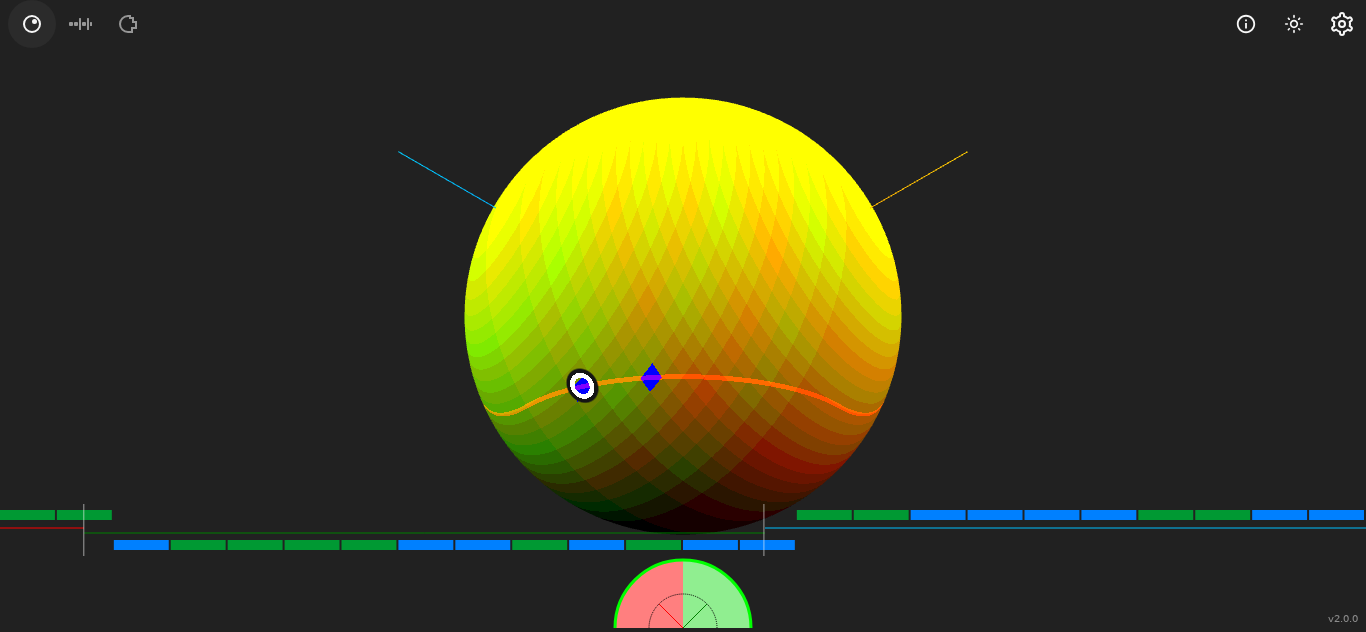
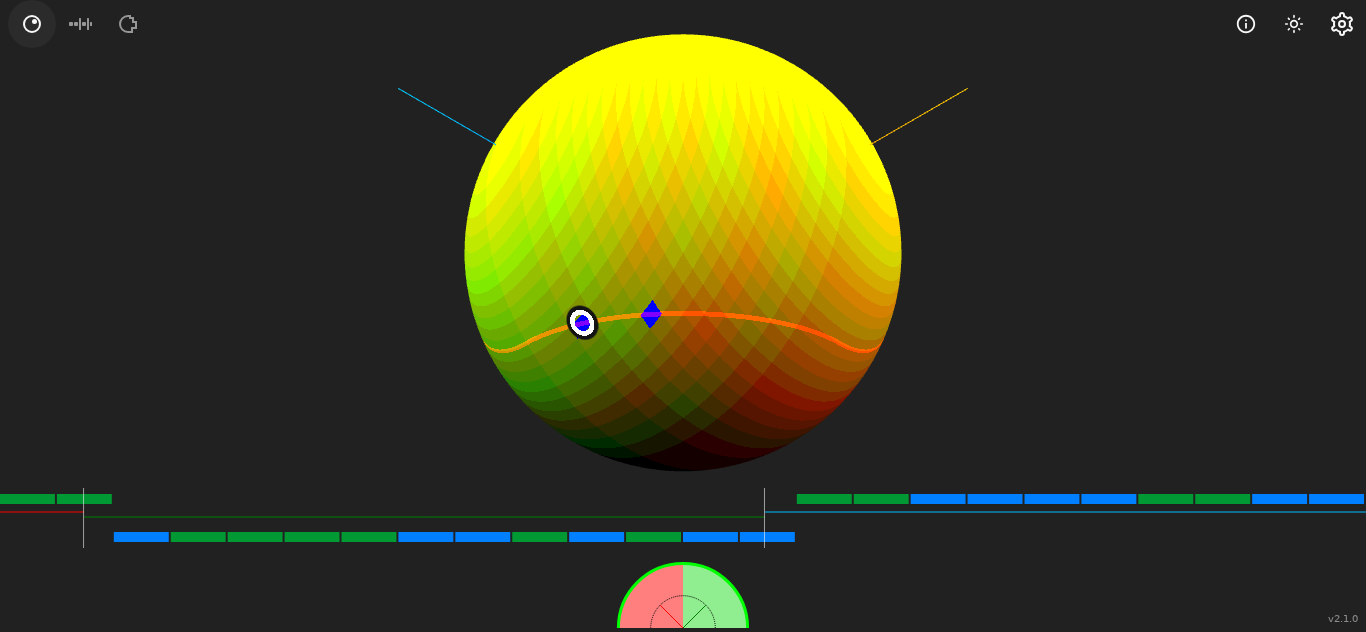
feat: a roomier layout (v2.1.0)
The sphere is drawn 10% of the height above the middle, through a view
offset of the projection, so the remembered camera, the orbit's target
and the raycast stay as they were. The necklace's rows stand 28 px apart
instead of 20, and the fairness meter starts 12 px below the handles and
fills 95% of its space. The canvas grows by 16 px, which keeps the
meter's space as before. The e2e test that samples the bottom row
follows the new distance; the README screenshots are retaken.

Changed region(s): [[0.0, 0.0301, 1.0, 0.932], [0.4919, 0.9019, 0.5534, 0.9921], [0.4305, 0.932, 0.4612, 0.9921]]

diff --git a/src/necklace/Necklace.ts b/src/necklace/Necklace.ts
@@ -23,7 +23,7 @@ const SEGMENT_Y_COLOR = "green";
 const SEGMENT_Z_COLOR = "rgb(0,191,255)";
 
 const JEWEL_HEIGHT = 10;
-const Y_GAP_BETWEEN_THIEVES = 20;
+const Y_GAP_BETWEEN_THIEVES = 28;
 const Y_GAP_BETWEEN_LINE_SEGMENTS = 5;
 const Y_GAP_THIEF_LINE_SEGMENT = 7;
 
@@ -33,6 +33,10 @@ const OVERHANG = 6;
 const ROWS_HEIGHT = 2 * JEWEL_HEIGHT + Y_GAP_BETWEEN_THIEVES;
 /** Where the handles are drawn and grabbed, from the top of the canvas. */
 const HANDLES_HEIGHT = ROWS_HEIGHT + 2 * OVERHANG;
+/** Where the fairness meter's space starts: below the handles, with a gap. */
+const GAUGE_TOP = HANDLES_HEIGHT + 12;
+/** The fairness meter's share of its space. */
+const GAUGE_SCALE = 0.95;
 /** How far from a handle, in px, a pointer still grabs it: at least 24 px wide for fingers. */
 const HANDLE_REACH = 14;
 /**
@@ -388,7 +392,7 @@ class Necklace extends NecklaceComponent {
       if (this.model.thief_a !== undefined && this.showGauge) {
         const thief_a = this.model.canonicalThief(this.model.thief_a);
         const thief_b = this.model.canonicalThief(this.model.thief_b);
-        this.drawGauge(ctx, 50 + OVERHANG, thief_a, thief_b);
+        this.drawGauge(ctx, GAUGE_TOP, thief_a, thief_b);
       }
     }
 
@@ -552,7 +556,7 @@ class Necklace extends NecklaceComponent {
     const height = this.height - y0;
     const lineWidth = 3.0;
     const vgap = 2;
-    const radius = height - vgap;
+    const radius = GAUGE_SCALE * (height - vgap);
 
     if (radius >= 10) {
       /** The real circle radius, scaled by sqrt(0.5), because the largest vector can be [1,1]. */

diff --git a/e2e/necklace.spec.ts b/e2e/necklace.spec.ts
@@ -176,11 +176,11 @@ test('without Discrete, a cut splits the jewel it falls into between the rows', 
     const rows = await necklace(page).evaluate((canvas: HTMLCanvasElement) => {
         const context = canvas.getContext('2d')!;
         const cut = 0.36 * canvas.width;
-        // The necklace starts 6 px down; a row is 10 px high, the bottom row 30 px below the top one.
+        // The necklace starts 6 px down; a row is 10 px high, the bottom row 38 px below the top one.
         const filled = (x: number, y: number) => context.getImageData(Math.round(x), y, 1, 1).data[3] > 0;
         return {
-            before: { top: filled(cut - 3, 11), bottom: filled(cut - 3, 41) },
-            after: { top: filled(cut + 3, 11), bottom: filled(cut + 3, 41) },
+            before: { top: filled(cut - 3, 11), bottom: filled(cut - 3, 49) },
+            after: { top: filled(cut + 3, 11), bottom: filled(cut + 3, 49) },
         };
     });
     // The first part goes to thief A, the second to thief B (the default thieves +, -, +).

diff --git a/src/sphere/Resizer.ts b/src/sphere/Resizer.ts
@@ -1,5 +1,13 @@
 import type * as THREE from "three";
 
+/**
+ * How far the sphere is drawn above the middle, as a part of the height: the
+ * necklace covers the bottom. Shifts the projection only, so the camera and
+ * the orbit's target (both remembered) stay as they are, and the raycast,
+ * which goes through the projection, follows.
+ */
+const VIEW_SHIFT = 0.1;
+
 class Resizer {
   constructor(
     container: HTMLElement,
@@ -27,7 +35,7 @@ class Resizer {
     // console.log(`setSize width: ${width}, height: ${height}`);
     if (camera !== undefined) {
       camera.aspect = width / height;
-      camera.updateProjectionMatrix();
+      camera.setViewOffset(width, height, 0, VIEW_SHIFT * height, width, height);
     }
 
     if (renderer !== undefined) {

diff --git a/src/css/necklace.css b/src/css/necklace.css
@@ -5,7 +5,8 @@
   bottom: 0%;
 
   width: 100%;
-  height: 20%;
+  /* The 16 px make room for the rows' gap and the meter's distance (Necklace.ts). */
+  height: calc(20% + 16px);
 
   margin-bottom: 2px;
   /* Dragging a handle must not scroll or zoom. */
@@ -18,7 +19,7 @@
   z-index: 5;
   position: absolute;
   left: 50%;
-  bottom: calc(20% + 16px);
+  bottom: calc(20% + 32px);
   transform: translateX(-50%);
   padding: 6px 14px;
   border-radius: 16px;

diff --git a/CLAUDE.md b/CLAUDE.md
@@ -61,8 +61,8 @@ Commit messages are `type: summary (vX.Y.Z)` with `type` one of `feat`, `fix`, `
 
 - `src/main.ts` sets up the app: settings, theme switcher, model, sphere, necklace, screen capture and the version label.
 - `src/necklace/NecklaceModel.ts` is the logic: the necklace configuration (from a number, lowest bit first, or from the bits of a string's characters), and the segment lengths and thief assignment for a cut. The shaders (`src/sphere/shaders/functions.glsl`) compute the same split for every point of the sphere; change both together, `e2e/split.spec.ts` compares them. `shares(p)` gives thief A's shares without applying the cut, for the Borsuk-Ulam shape. A new necklace keeps the cut (a point of the sphere, whatever the jewels), and the model applies it again on `UPDATE_SPHERE_MATERIAL`, so the shares follow a changed necklace or Discrete.
-- `src/sphere/Sphere.ts` is the 3D view: renderer, camera, `OrbitControls`, the sphere as eight octant meshes (faces and wireframe sharing one geometry; Spread octants moves them, Undivided octants hides two, so the shaders know nothing of octants and no triangle spans two of them) with their GLSL shaders (`src/sphere/shaders/`, loaded through `vite-plugin-glsl`), the solution band, the raycast that picks the cut under the pointer (it interpolates the hit triangle's `cut` attribute), and the render loop. `octantGeometry.ts` builds an octant's geometry: the attribute `cut` holds the point of the unit sphere each vertex stands for, which the shaders color by; when the Borsuk-Ulam shape is needed (shown, or morphing), the geometry gets it as its morph target, (g(x), z) · radius, computed on the CPU with `NecklaceModel.shares`. The meshes' morph influence (`SETTINGS.sphere.morph`, `applyMorph`) moves between sphere and shape; faces (the vertex shader includes Three's morph chunks), wireframe and raycast all follow it. The geometry is rebuilt by Radius and Segments, and with the shape also when the necklace or Discrete changes (`updateGeometry`). View › Lighting shades the faces in the fragment shader with a flat normal from screen-space derivatives and a headlight (`u_light`: Always 1, Shape as far as the sphere is morphed, Off 0); the light dims the colors to 60% at most, and the solution band and the marker stay unlit. Per-face normals rather than vertex normals (decided 2026-09-29): averaged normals would smear across the walls of the discrete shape, and these keep working while the shape morphs. The shape follows Discrete (decided 2026-09-29): a discrete g is piecewise constant, so what shows are the walls across its jumps, and they stay. `OrbitControls` stay (decided 2026-09-28, instead of the `TrackballControls` Climate Helix uses): they reach every point of the sphere and keep the vertical axis vertical, so the axes and octants stay where the explanation puts them; trackball controls let the view tip over, and their momentum needs an update every frame, against drawing only on change. The loop draws only when something changed (`#needsRender`: camera, pointer, size, theme, sphere, material or visibility) and every frame while the rotation animation runs: set the flag when adding anything else that changes the picture. The pointer is hit-tested before drawing; it is read on the sphere's canvas only (`mousemove`, `mouseleave`), so the settings panel, the necklace and the buttons in front of it do not move the cut, and it starts outside the view, so no cut is set before it moves. In the necklace mode (`cutsFromNecklace()` in `settingsValues.ts`) there is no hit-test: the marker shows the model's cut, and `SHOW_CUT` (a handle let go, a part given away) turns the camera around the orbit's target to the point if it lies more than 50° from the direction of view (`showCut`, `turnCamera`), not while the rotation animation runs. When the browser takes the GPU away (`webglcontextlost`), a message says so; Three.js restores its state when the context returns, and the sphere draws again (`webglcontextrestored`). Two tabs overwrite each other's stored settings, last write wins (decided 2026-10-01: rare, and nothing breaks). `Resizer.ts` fits renderer and camera to the window; `Stats.ts` is the optional FPS monitor.
-- `src/necklace/Necklace.ts` draws the necklace, the current cut as two handles and the fairness meter on a 2D canvas. In the necklace mode the handles are dragged (pointer events, snapped to the gaps between jewels with Discrete, swapping roles when one passes the other) and tapping a part gives it to the other thief; hidden sliders and buttons (`.visually-hidden`) do the same from the keyboard and for screen readers, and the canvas marks the focused one. The handles reach 6 px beyond the jewels' rows (`OVERHANG`). A cut set by the handles is nudged 10⁻⁹ before them, so that a handle exactly on a gap does not take the next jewel through rounding. A fair split shows a message (`role="status"`). The game hides the solution band and the solutions without touching the settings: `solutionHintShown` and `setSolutionHint` in `settingsValues.ts` read and write a per-game override while `cutsFromNecklace()`, which the view switcher resets on every `INPUT_CHANGED`; the settings' checkboxes show and change it during the game. `src/necklace/handles.ts` maps between handles (a, b and the thieves of the three parts) and the point of the sphere. `src/necklace/NecklaceComponent.ts` is the base class of both views (container, canvas, model, theme observer).
+- `src/sphere/Sphere.ts` is the 3D view: renderer, camera, `OrbitControls`, the sphere as eight octant meshes (faces and wireframe sharing one geometry; Spread octants moves them, Undivided octants hides two, so the shaders know nothing of octants and no triangle spans two of them) with their GLSL shaders (`src/sphere/shaders/`, loaded through `vite-plugin-glsl`), the solution band, the raycast that picks the cut under the pointer (it interpolates the hit triangle's `cut` attribute), and the render loop. `octantGeometry.ts` builds an octant's geometry: the attribute `cut` holds the point of the unit sphere each vertex stands for, which the shaders color by; when the Borsuk-Ulam shape is needed (shown, or morphing), the geometry gets it as its morph target, (g(x), z) · radius, computed on the CPU with `NecklaceModel.shares`. The meshes' morph influence (`SETTINGS.sphere.morph`, `applyMorph`) moves between sphere and shape; faces (the vertex shader includes Three's morph chunks), wireframe and raycast all follow it. The geometry is rebuilt by Radius and Segments, and with the shape also when the necklace or Discrete changes (`updateGeometry`). View › Lighting shades the faces in the fragment shader with a flat normal from screen-space derivatives and a headlight (`u_light`: Always 1, Shape as far as the sphere is morphed, Off 0); the light dims the colors to 60% at most, and the solution band and the marker stay unlit. Per-face normals rather than vertex normals (decided 2026-09-29): averaged normals would smear across the walls of the discrete shape, and these keep working while the shape morphs. The shape follows Discrete (decided 2026-09-29): a discrete g is piecewise constant, so what shows are the walls across its jumps, and they stay. `OrbitControls` stay (decided 2026-09-28, instead of the `TrackballControls` Climate Helix uses): they reach every point of the sphere and keep the vertical axis vertical, so the axes and octants stay where the explanation puts them; trackball controls let the view tip over, and their momentum needs an update every frame, against drawing only on change. The loop draws only when something changed (`#needsRender`: camera, pointer, size, theme, sphere, material or visibility) and every frame while the rotation animation runs: set the flag when adding anything else that changes the picture. The pointer is hit-tested before drawing; it is read on the sphere's canvas only (`mousemove`, `mouseleave`), so the settings panel, the necklace and the buttons in front of it do not move the cut, and it starts outside the view, so no cut is set before it moves. In the necklace mode (`cutsFromNecklace()` in `settingsValues.ts`) there is no hit-test: the marker shows the model's cut, and `SHOW_CUT` (a handle let go, a part given away) turns the camera around the orbit's target to the point if it lies more than 50° from the direction of view (`showCut`, `turnCamera`), not while the rotation animation runs. When the browser takes the GPU away (`webglcontextlost`), a message says so; Three.js restores its state when the context returns, and the sphere draws again (`webglcontextrestored`). Two tabs overwrite each other's stored settings, last write wins (decided 2026-10-01: rare, and nothing breaks). `Resizer.ts` fits renderer and camera to the window and draws the sphere 10% of the height above the middle (`VIEW_SHIFT`, a view offset of the projection, so the remembered camera and the raycast are untouched); `Stats.ts` is the optional FPS monitor.
+- `src/necklace/Necklace.ts` draws the necklace, the current cut as two handles and the fairness meter on a 2D canvas. In the necklace mode the handles are dragged (pointer events, snapped to the gaps between jewels with Discrete, swapping roles when one passes the other) and tapping a part gives it to the other thief; hidden sliders and buttons (`.visually-hidden`) do the same from the keyboard and for screen readers, and the canvas marks the focused one. The handles reach 6 px beyond the jewels' rows (`OVERHANG`). The fairness meter fills 95% of the space below the handles (`GAUGE_TOP`, `GAUGE_SCALE`); the canvas is 20% of the height plus 16 px (`necklace.css`). A cut set by the handles is nudged 10⁻⁹ before them, so that a handle exactly on a gap does not take the next jewel through rounding. A fair split shows a message (`role="status"`). The game hides the solution band and the solutions without touching the settings: `solutionHintShown` and `setSolutionHint` in `settingsValues.ts` read and write a per-game override while `cutsFromNecklace()`, which the view switcher resets on every `INPUT_CHANGED`; the settings' checkboxes show and change it during the game. `src/necklace/handles.ts` maps between handles (a, b and the thieves of the three parts) and the point of the sphere. `src/necklace/NecklaceComponent.ts` is the base class of both views (container, canvas, model, theme observer).
 - `src/settings/settingsValues.ts` holds `SETTINGS` with its defaults, the ranges of the numeric settings (`LIMITS`, used by the controls and to validate stored values), `EPS`, `MAX_JEWELS` (for a necklace by number) and `MAX_NECKLACE_JEWELS` (for any necklace: the shader gets one uniform per jewel, and WebGL 2 guarantees only 224 uniform vectors; a text takes as many whole characters as fit, `necklaceFromText`); import them from there. `src/settings/Settings.ts` applies the remembered settings and builds the settings panel: `SettingsPanel.ts` is the native side panel (full screen on phones) with a scrolling body and a fixed footer, `settingsSections.ts` fills it (Necklace, View, Animation, Screen capture, a collapsed Advanced with the sphere's mesh and colors; the footer with Imprint, Check for updates and Restore defaults), from the controls in `settingsControls.ts` (section, checkbox, range, number field, text field, segmented buttons, button; each control's `update()` shows a value that changed elsewhere). A label that does not explain itself is given as `explained(textKey, infoKey)` (`settingsSections.ts`): an ⓘ button behind it opens the explanation (`info.*` in the catalogs) as a call-out below the row, one at a time. Each control writes `SETTINGS`, dispatches the event the views listen for and saves the settings. `SettingsButton.ts` is the gear button; `h` and Escape open and close the panel too. The styles are in `src/css/settings.css`. `src/settings/PersistentState.ts` keeps the settings (those listed in `SETTING_FIELDS`, with the ranges of their controls), which input defined the necklace last, the theme and the camera across reloads in one Local Storage entry (`necklace-splitting.state`). `Settings.ts` applies them before building the panel, the controls save on every change; "Restore defaults" asks, clears the entry and reloads. A new setting that should be remembered goes into `SETTING_FIELDS`.
 - `src/Enums.ts` holds the `Events` used between modules.
 - `src/ui/ViewSwitcher.ts` is the view switcher in the upper left corner, level with the icon buttons on the right; on phones the morph slider wraps below it (styles in `src/css/switcher.css`), modeled on Climate Helix's scene switcher: three exclusive scenes, entered and left through `enter` and `leave`. *Point at the sphere* and *Cut the necklace* choose what sets the cuts (`SETTINGS.view.input`, remembered, `INPUT_CHANGED`); *Borsuk-Ulam shape* (`SETTINGS.sphere.show_borsuk_ulam_proof_shape`, remembered) morphs the sphere into the shape in a second, and a slider beside it, shown in that scene, scrubs the morph, with player buttons around it: ◀ plays the morph back to the sphere, ▶ into the shape, each turning into pause (⏸) while it plays its way and disabled at its end. Both set `SETTINGS.sphere.morph` (not remembered; it follows the scene at startup) and dispatch `MORPH_CHANGED`. Leaving the shape for another scene restores the sphere at once. In the shape scene, `Necklace.ts` hides the necklace and the fairness meter, and the pointer sets the cuts. Three exclusive scenes (decided 2026-09-29): planned as an input mode plus a Borsuk-Ulam toggle, but then the input buttons were disabled in the shape view and the slider vanished before the morph back. The upper left corner after trying above the necklace and the lower left corner, where the fairness meter had to move aside on phones.

diff --git a/RELEASE-PLAN.md b/RELEASE-PLAN.md
@@ -11,6 +11,8 @@ Work through the phases in order. Each step is one commit with a version bump an
 
 ## Phase 1: Layout (minor)
 
+> **Done** in v2.1.0: rows 28 px apart, the meter's space 12 px below the handles, the canvas `calc(20% + 16px)`, so the meter keeps its old space and fills 95% of it.
+
 Done first, because the dice needs the room it makes.
 
 1. **Sphere 10% higher.** Shift the projection with `camera.setViewOffset` in `Resizer.ts` (by 10% of the height), not by moving the camera or the orbit's target. The camera stored in the persistent state stays valid, and the raycast and `showCut` keep working, since both go through the camera's projection. Check the necklace mode's `turnCamera` and the capture.

diff --git a/ROADMAP.md b/ROADMAP.md
@@ -12,4 +12,3 @@ Planned for the next feature release, in `RELEASE-PLAN.md`:
 
 - The necklace shall have its own discrete configuration switch, which should default to `false` (continuous).
 - A new challenge (new necklace to cut), shall be available through a "roll the dice" (ideally animated) button, which could be placed left to the fairness meter.
-- The layout looks a bit cramped. I think the sphere can move up a bit (10%), the fairness meter can be made a little smaller (5%), the gap between meter and necklace can be bigger, and the height of the necklace control can be increased a little (so that there is more space between thief A and thief B).

diff --git a/CHANGELOG.md b/CHANGELOG.md
@@ -1,6 +1,10 @@
 # Changelog
 
-## v2.0.8 · 2026-10-01
+## v2.1.0 · 2026-10-01
+
+* A roomier layout: the sphere sits higher, clear of the necklace; the necklace's rows for thief A and thief B stand further apart; and the fairness meter is a little smaller, with more space above it.
+
+## v2.0.8 · 2026-10-01 · [28de4eb](https://github.com/mkuehne-git/necklace-splitting/commit/28de4eb)
 
 * No functional change. A plan for the next features: the necklace's own Discrete switch, a dice for a new necklace, and a roomier layout.
 
